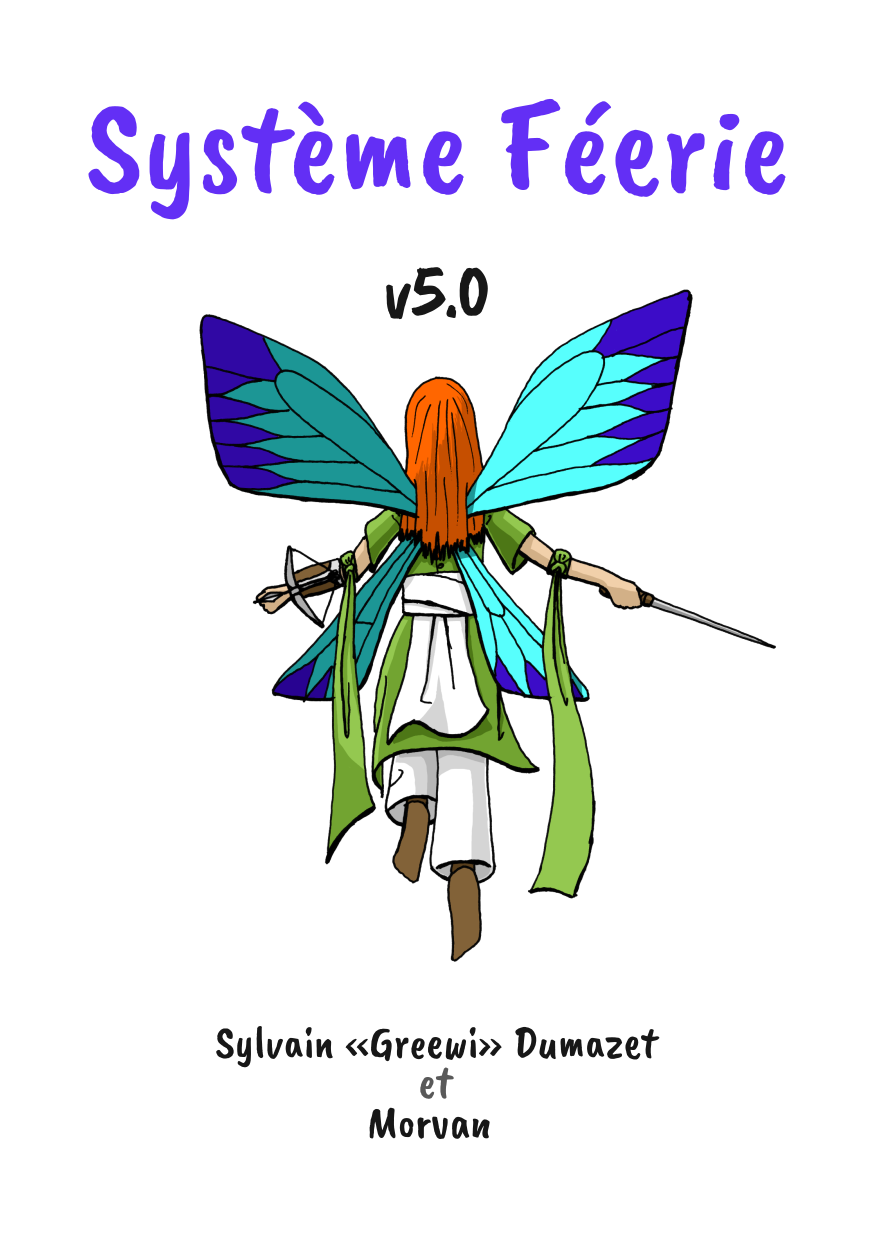
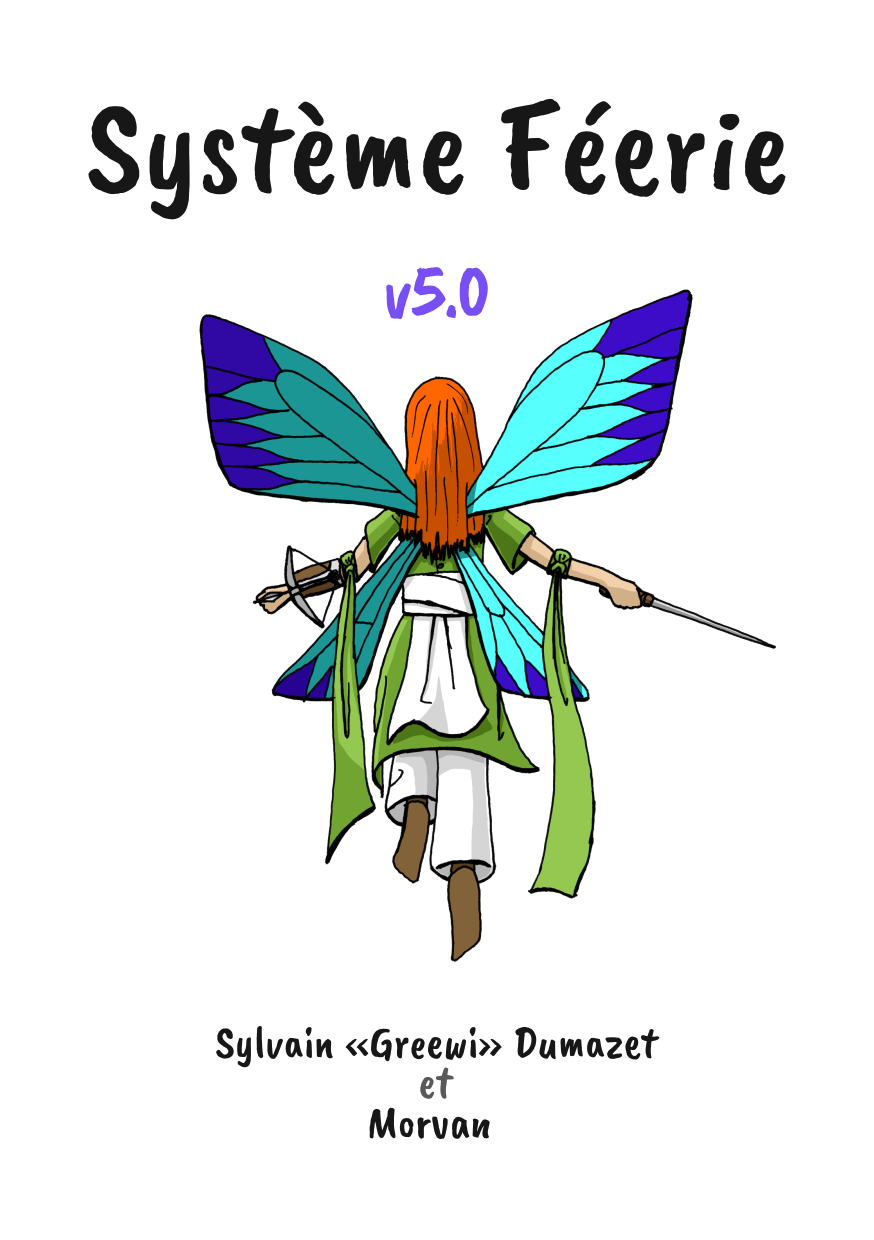
:pencil2: Correction des textes et retouche de la couverture

diff --git a/Système Féerie V5/0 - Introduction.md b/Système Féerie V5/0 - Introduction.md
@@ -17,7 +17,7 @@ Jusqu’ici, nous n’avions pas trouvé de système qui réponde convenablement
 * Remettre les participants en pleine possession de l’histoire à la table ;
 * Privilégier le sens et la description aux mécaniques abstraites habituelles des jeux de rôles.
 
-Ceci a pour conséquences un certains nombre de choix. Pour commencer, ce système utilise un processus atypique pour la création des personnages : le personnage est initialement défini avec des termes courants, à partir d’un questionnaire ou en rédigeant une description du personnage ; puis les règles transposent simplement et naturellement les éléments de ce personnage en caractéristiques chiffrées qui seront utilisées lors de la résolution des actions. Il n’y a pas de système de points/classe/niveau/archétype pour “encadrer” ou restreindre cette création et dans l’absolu, cette méthode permet de créer n’importe quel personnage de n’importe quel univers.
+Ceci a pour conséquences un certain nombre de choix. Pour commencer, ce système utilise un processus atypique pour la création des personnages : le personnage est initialement défini avec des termes courants, à partir d’un questionnaire ou en rédigeant une description du personnage ; puis les règles transposent simplement et naturellement les éléments de ce personnage en caractéristiques chiffrées qui seront utilisées lors de la résolution des actions. Il n’y a pas de système de points/classe/niveau/archétype pour “encadrer” ou restreindre cette création et dans l’absolu, cette méthode permet de créer n’importe quel personnage de n’importe quel univers.
 
 Ensuite, dans cette optique descriptive, les règles ne décrivent que des mécaniques de résolution mais sans imposer des règles pour fixer les conséquences (par exemple, il n’y a pas de gestion précise de la santé dans le corpus de règles du *Système Féerie*). Dans ce cadre, ce n’est plus au système de jeu de déterminer précisément comment l’action doit se comporter, mais aux participants. Ceci impose aussi que les règles de résolution ne fassent aucune distinction sur la nature des actions à résoudre : pas de spécificité pour, par exemple, le combat ou la magie.
 
@@ -29,7 +29,7 @@ Ce système a été conçu pour être simple et rapide à prendre en main. Comme
 
 Le *Système Féerie* tire ses origines du jeu de rôles amateur *Féerie, l’autre monde*. Comme la plupart des jeux « médiéval fantastique mais… », il a fini enterré depuis longtemps. Pourtant, ce jeu possédait quelques principes rares dans son système de jeu qui sont résumés dans la précédente note d’intention. Ce système a donc été extrait sous le nom *Règles simples et sans surplus pour Féerie et autres mondes* avant de devenir le *Système Féerie* première version.
 
-Ainsi, le *Système Féerie* est resté, reposant toujours sur le même principe : créer son personnage en partant de sa description pour en tirer les caractéristiques. Tenter de procéder comme ça avec la plupart des autres systèmes de jeu conduit pratiquement toujours à devoir faire des concessions sur cette description ou à prendre des libertés vis-à-vis des règles du jeu. De mon expérience, une proportion significative de groupes de joueurs finissent par choisir la seconde option dans ce cas.
+Ainsi, le *Système Féerie* est resté, reposant toujours sur le même principe : créer son personnage en partant de sa description pour en tirer les caractéristiques. Tenter de procéder comme ça avec la plupart des autres systèmes de jeu conduit pratiquement toujours à devoir faire des concessions sur cette description ou à prendre des libertés vis-à-vis des règles du jeu. De mon expérience, une proportion significative de groupes de joueurs finit par choisir la seconde option dans ce cas.
 
 Bien sûr, au départ, le *Système Féerie* était très archaïque et n’allait pas assez loin. Malgré tout, je suis parvenu à en faire une première version, puis une seconde. J’ai ensuite reçu l’aide de Morvan qui m’a rejoint sur ce projet. Il a apporté beaucoup d’aide, un regard extérieur et surtout des connaissances très avancées sur l’état de l’art. Pour être honnête, c’est à lui que l’on doit le fossé qui sépare la seconde version de la troisième version du *Système Féerie*.
 
@@ -41,7 +41,7 @@ Ainsi, le *Système Féerie* a connu de nombreuses itérations et déjà quatre 
 
 Le *Système Féerie* que vous avez entre les mains est une version prête à être adaptée. Cela signifie que vous pourriez l’utiliser directement pour votre jeu, à condition de faire les modifications et adaptations qui conviennent. Ce système léger est aussi très malléable et vous trouverez dans ce document toutes les règles de jeu et les conseils pour les faire fonctionner dans votre jeu.
 
-Au fil de ce document vous trouverez différents type d’encart :
+Au fil de ce document vous trouverez différents types d’encart :
 * Ceux avec la mention « **Règle optionnelle** » concernent des règles optionnelles qui peuvent être intégrées à votre jeu mais qui ne font pas partie du cœur de base. Ce sont principalement des règles que vous pourriez vouloir sans que nous ne les jugions nécessaires. Elles sont donc soumises à votre propre appréciation.
 * Les encarts avec la mention « *Adaptation* » donnent des indications et des conseils pour adapter le *Système Féerie* à votre jeu.
 * Les autres encarts sont des précisions ou des exemples qui font partie du *Système Féerie*.
@@ -52,9 +52,9 @@ Vous trouverez à la fin de ce document, un chapitre, *Adapter le Système*, pou
 
 Le jeu de rôles est un medium très puissant car il repose majoritairement sur l’imagination. Et c’est une chose que la plupart, si ce n’est la totalité, des gens possèdent. En revanche, il est généralement distribué sous forme de texte et d’éléments graphiques, comme les livres de règles, les fiches de personnages, les aides de jeu, et même les dés. Il serait particulièrement dommage d’exclure une partie de votre public à cause de ces supports écrits. C’est pourquoi nous portons quelques éléments d’accessibilité à votre attention.
 
-Pour commencer, un assez grand nombre de personne possèdent une mauvaise vue. Environ trois personne sur quatre possède un trouble de la vision et près de 13 % ne portent pas de correction adaptée. C’est un handicap souvent léger qui peut vite devenir problématique si vous écrivez vos textes en corps 7 par-dessus un filigrane chargé en fond de page. Même si vous souhaitez offrir une mise en page riche et chargée comme le standard de la mise en page des jeux de rôles semble l’indiquer, n’hésitez pas à étudier la possibilité d’offrir un format avec de grandes polices (14 points) et ayant un contraste fort (noir sur fond blanc, voir blanc sur fond noir pour un support numérique). Évitez aussi d’utiliser une police fantaisie trop difficile à lire, mais ce conseil vaut aussi pour votre public valide.
+Pour commencer, un assez grand nombre de personne possèdent une mauvaise vue. Environ trois personnes sur quatre possèdent un trouble de la vision et près de 13 % ne portent pas de correction adaptée. C’est un handicap souvent léger qui peut vite devenir problématique si vous écrivez vos textes en corps 7 par-dessus un filigrane chargé en fond de page. Même si vous souhaitez offrir une mise en page riche et chargée comme le standard de la mise en page des jeux de rôles semble l’indiquer, n’hésitez pas à étudier la possibilité d’offrir un format avec de grandes polices (14 points) et ayant un contraste fort (noir sur fond blanc, voir blanc sur fond noir pour un support numérique). Évitez aussi d’utiliser une police fantaisie trop difficile à lire, mais ce conseil vaut aussi pour votre public valide.
 
->> Pour *Solaires*, nous avons rencontré le problème sur nos fiches de personnage. À l’heure ou nous écrivons ces lignes, le problème est hélas encore présent même si nous réfléchissons à de nouvelles fiches. Ne faites pas comme nous : pensez-y avant que le problème ne vous soit remonté !
+>> Pour *Solaires*, nous avons rencontré le problème sur nos fiches de personnage. À l’heure où nous écrivons ces lignes, le problème est hélas encore présent même si nous réfléchissons à de nouvelles fiches. Ne faites pas comme nous : pensez-y avant que le problème ne vous soit remonté !
 
 Saviez-vous que 8 % de la population masculine était atteinte par le daltonisme ? Et bien que l’incapacité à distinguer le rouge et le vert soit la version la plus courante, il en existe plusieurs autres variantes. Aussi, ne donnez jamais d’information sur la seule base de la couleur. Et puis, de toutes façons, n’oubliez que la plupart des gens impriment en noir et blanc.
 
@@ -70,7 +70,7 @@ La dyslexie est un problème aussi important. La dyslexie touche entre 3 à 7 %
 
 Plus rare mais tout aussi gênante, l’aphantasie est une affection qui empêche la personne de former des images mentales. À la lecture d’une description, la plupart des gens visualisent une image de celle-ci, mais ceux affectés par l’aphantasie ne le peuvent pas. C’est évidemment un problème pour le jeu de rôles ou tout ou presque se base sur un discours oral en partie. Pour aider ces personnes, qui représenteraient environ 2 % de la population (les recherches sont assez récentes), il est utile d’apporter des illustrations des choses spécifiques du jeu et si possible de permettre au meneur de les montrer facilement pendant la partie.
 
-Les troubles du déficit de l’attention avec ou sans hyperactivité touchent près 5 % de la population. Parmi les symptômes on retrouve notamment la difficulté à conserver une durée d’attention sur une longue durée. Pour palier ce problème, nous conseillons d’adapter la durée des séances et d’effectuer des pauses. Du point de la création d’un jeu cela implique qu’il faut essayer d’éviter de générer des situations qui prennent beaucoup de temps. Certains jeux demandent aux joueurs de rester concentré plus d’une heure sur un même combat et c’est une situation difficile pour ces personnes. Le *Système Féerie* par sa conception n’impose pas de tel format de situation, mais faites attention à ne pas générer de mécanique qui pourrait prendre beaucoup trop de temps pour se résoudre.
+Les troubles du déficit de l’attention avec ou sans hyperactivité touchent près 5 % de la population. Parmi les symptômes on retrouve notamment la difficulté à conserver une durée d’attention sur une longue durée. Pour pallier ce problème, nous conseillons d’adapter la durée des séances et d’effectuer des pauses. Du point de la création d’un jeu cela implique qu’il faut essayer d’éviter de générer des situations qui prennent beaucoup de temps. Certains jeux demandent aux joueurs de rester concentré plus d’une heure sur un même combat et c’est une situation difficile pour ces personnes. Le *Système Féerie* par sa conception n’impose pas de tel format de situation, mais faites attention à ne pas générer de mécanique qui pourrait prendre beaucoup trop de temps pour se résoudre.
 
 Il existe aussi de nombreux handicaps mentaux qui peuvent gêner la compréhension des textes. Si votre jeu cible les personnes ayant un handicap mental, faites attentions au niveau de langue et à la complexité des phrases. Par exemple, ce présent document leur serait simplement hors d’atteinte. Cette contrainte particulièrement forte est sans doute l’une des plus difficiles à prendre en compte simplement. Si vous adaptez vos textes et concepts à ce public, notez que votre jeu sera aussi accessible aux personnes qui apprennent encore la langue. Le niveau de langue est aussi un élément à prendre en compte si vous visez un public très jeune.
 

diff --git a/Système Féerie V5/4 - Modifications scénaristiques.md b/Système Féerie V5/4 - Modifications scénaristiques.md
@@ -14,7 +14,7 @@ Au début de chaque séance, les personnages possèdent un nombre fixe de points
 
 Nous vous recommandons de donner trois points à chaque personnage au début d’une séance. Mais vous pouvez aussi déterminer ce nombre en considérant simplement le nombre de modifications majeures par joueur lors de la séance. Ceci peut être utile, notamment si le meneur a prévu une séance particulièrement longue ou courte.
 
->> Certains meneurs peuvent aussi s’en servir pour récompenser certaines actions ou en récompense à la fin d’un arc ou d’une séance. Nous vous conseillons dans ce cas de réduire le nombre obtenus en début de séance. Une autre solution consiste aussi à ne pas permettre de les conserver d’une séance sur l’autre.
+>> Certains meneurs peuvent aussi s’en servir pour récompenser certaines actions ou en récompense à la fin d’un arc ou d’une séance. Nous vous conseillons dans ce cas de réduire le nombre obtenu en début de séance. Une autre solution consiste aussi à ne pas permettre de les conserver d’une séance sur l’autre.
 
 ----
 ## Faire une modification
@@ -33,11 +33,11 @@ Il existe deux catégories de modifications :
 
 Voici une liste de modifications mineures :
 * **Décrire les conséquences d’une action** : décrivez les conséquences d’une action de votre personnage. Comme toutes les modifications scénaristiques, elle reste sujette au veto des participants, en particulier du meneur. Vous devez conserver la même qualité de réussite et d’échec. Vous ne pouvez donc pas décrire une contrepartie bénéfique en cas d’échec si la résolution de l’action n’en indique pas. *Par exemple, Skyline tente de convaincre un agent de sécurité de le laisser inspecter une scène de crime, mais il échoue avec une contrepartie positive. Le joueur décide de décrire lui-même cette contrepartie positive et utilise son trait **Bavard** pour proposer que Skyline a réussi pendant l’opération à occuper suffisamment l’agent pour permettre à Razors de passer discrètement derrière plus facilement sans en obtenir l’autorisation lui-même.*
-* **Modification cosmétique** : modifiez un élément lié à votre personnage ou faites lui faire quelque chose sans que cela ne vous procure un avantage mais serve à typer votre personnage. *Par exemple, alors qu’une fusillade fait rage à côté d’elle, Jay'ny explore la matrice. Bien que ça ne lui donnera aucun bonus pour la suite, sa joueuse décide d’utiliser son trait **Calme quand elle est connectée** pour avoir une posture zen en décalage avec la situation. (Notez que son trait ne lui procurerait réellement un avantage que s’il était utilisé normalement pour résoudre une action à propos.)*
+* **Modification cosmétique** : modifiez un élément lié à votre personnage ou faites-lui faire quelque chose sans que cela ne vous procure un avantage mais serve à typer votre personnage. *Par exemple, alors qu’une fusillade fait rage à côté d’elle, Jay'ny explore la matrice. Bien que ça ne lui donnera aucun bonus pour la suite, sa joueuse décide d’utiliser son trait **Calme quand elle est connectée** pour avoir une posture zen en décalage avec la situation. (Notez que son trait ne lui procurerait réellement un avantage que s’il était utilisé normalement pour résoudre une action à propos.)*
 
 Voici une liste de modifications majeures :
 * **Ajouter un effet secondaire** : ajoutez un effet secondaire, positif ou négatif, au choix du joueur, lors de la résolution d’une action après avoir vu le résultat du jet de dés. *Par exemple, Skyline interroge un agent de sécurité martien et réussi son action. Ainsi, l’agent lui donne les informations qu’il possède. Le joueur de Skyline décide d’utiliser sa relation **Mars** et propose alors d’ajouter un effet secondaire positif pour que cet agent le prévienne s’il apprenait quelque chose plus tard.*
-* **Supprimer un effet secondaire** : supprimez un effet secondaire, positif ou négatif, après avoir vu le résultat du jet de dés. *Par exemple, Downlink tente un piratage mais Justine, la meneuse, a indiqué que si le joueur conservait pas les trois dés, un effet secondaire négatif aurait lieu. Downlink lance les dés et et ne conserve que deux dés. Le joueur décide d’utiliser un point de personnage et sa **Console de décryptage modifiée** pour supprimer l’effet secondaire et éviter une complication.*
+* **Supprimer un effet secondaire** : supprimez un effet secondaire, positif ou négatif, après avoir vu le résultat du jet de dés. *Par exemple, Downlink tente un piratage mais Justine, la meneuse, a indiqué que si le joueur ne conservait pas les trois dés, un effet secondaire négatif aurait lieu. Downlink lance les dés et ne conserve que deux dés. Le joueur décide d’utiliser un point de personnage et sa **Console de décryptage modifiée** pour supprimer l’effet secondaire et éviter une complication.*
 * **Lier un élément scénaristique** : liez un élément scénaristique à votre personnage. *Par exemple, alors que l’équipe tente d’entrer dans une boîte de nuit, un videur les arrête au prétexte que la salle est pleine. Sophie, qui joue Razors, utilise la relation **École militaire de Mars** de son personnage et propose que Razors connaisse le videur.*
 * **Créer un élément scénaristique** : créez un élément scénaristique ayant un lien avec votre personnage. *Par exemple, alors qu’une fusillade a éclaté dans un bar, Nicolas qui joue Downlink, propose d’utiliser son trait **Débrouillard** pour découvrir une arme cachée sous le comptoir où il est retranché.*
 * **Faire un Flashback** : demandez au meneur un bref flashback pour apporter un élément nouveau ou altérer légèrement certains faits qui n’ont pas été joués à l’écran. *Par exemple, que l’équipe se prépare à questionner un membre des Phobos’ Heigths, ce dernier réussi à prendre la fuite, la joueuse de Razors décide d’utiliser la carrière **Solar Wardners** et explique qu’avant de venir, elle a demandé aux forces de sécurité de se préparer à intervenir vu la réputation du triste sire. Ce dernier court désormais droit dans un cordon de la sécurité.*

diff --git a/Système Féerie V5/7 - Adapter le système.md b/Système Féerie V5/7 - Adapter le système.md
@@ -38,7 +38,7 @@ Pour continuer, vous devez déterminer les rôles, c’est-à-dire les aspects d
 
 Considérons la création des personnages en elle-même. La méthode descriptive que nous proposons peut-être très simple, les descriptions n’ayant pas besoin d’être volumineuses, mais elle demande aux joueurs un minimum de connaissance de l’univers du jeu. Pour les aider, nous renouvelons notre conseil : donnez-leur des pré-tirés ou des archétypes en exemple, qu’ils sachent à quoi ressemble un personnage dans votre jeu.
 
-Donnez leur une courte aide de jeu, résumant, un peu comme un glossaire, les informations importantes pour créer les personnages : l’histoire de l’univers, les principales factions, la géographie, etc. N’hésitez pas non plus à leur donner des listes d’éléments typique de l’univers que ce soient des carrières, du matériel, des factions, etc.
+Donnez-leur une courte aide de jeu, résumant, un peu comme un glossaire, les informations importantes pour créer les personnages : l’histoire de l’univers, les principales factions, la géographie, etc. N’hésitez pas non plus à leur donner des listes d’éléments typique de l’univers que ce soient des carrières, du matériel, des factions, etc.
 
 ----
 ## Gérer les particularités de l’univers en jeu
@@ -49,11 +49,11 @@ Naturellement, vous serez tentés de créer des règles dédiées pour y parveni
 
 Quel que soit l’aspect que vous souhaitez apporter dans votre jeu, vous devriez normalement pouvoir le décrire. Expliquez son fonctionnement tel qu’il est compris dans l’univers du jeu. Imaginez que vous ayez un personnage qui explique à d’autres comment ça marche et comment s’en servir. Lorsque vous lisez un livre, vous comprenez généralement comment fonctionnent les éléments de la fiction sans qu’on ait pour autant donné des règles de simulation.
 
-Par exemple, si vous avez lu *Le neuromancien* de William Gibson, vous savez que dans cette fiction le piratage informatique implique d’utiliser un virus numérique pour pénétrer la protection du serveur à atteindre, qui s’appelle une glace. Ces logiciels peuvent prendre du temps pour opérer et ils sont conçus pour certains types de glaces. Vous savez aussi qu’il existe deux grandes familles de glaces, les blanches, solides mais inoffensives, et les noires capables de riposter et de tuer le decker s’il ne se déconnecte pas à temps. Avec cette description, vous avez tout ce qu’il vous faut pour gérer cette situation en jeu avec la mécanique de résolution du *Système Féerie*.
+Par exemple, si vous avez lu *Neuromancien* de William Gibson, vous savez que dans cette fiction le piratage informatique implique d’utiliser un virus numérique pour pénétrer la protection du serveur à atteindre, qui s’appelle une glace. Ces logiciels peuvent prendre du temps pour opérer et ils sont conçus pour certains types de glaces. Vous savez aussi qu’il existe deux grandes familles de glaces, les blanches, solides mais inoffensives, et les noires capables de riposter et de tuer le decker s’il ne se déconnecte pas à temps. Avec cette description, vous avez tout ce qu’il vous faut pour gérer cette situation en jeu avec la mécanique de résolution du *Système Féerie*.
 
 Il en va de même pour des choses qui ont habituellement des règles dédiées particulièrement verbeuses et complexes comme la magie. Et d’ailleurs, dans toutes les œuvres où vous voyez la magie à l’œuvre, celle-ci n’est généralement pas régie par des règles mécaniques précises (et il est même courant qu’elles servent l’histoire de façon particulièrement pratique). Par exemple, si vous avez lu les romans *Harry Potter* de J. K. Rowling, vous avez une idée assez claire de comment la magie fonctionne, en particulier les sortilèges. Dans cet univers, ce sont des formules rigides à connaître et qui produisent des effets simples. Pour ce type de magie, vous pouvez simplement vous contenter de constituer la liste de ces sortilèges en décrivant brièvement leurs effets, sans avoir besoin de leur donner un fonctionnement mécanique.
 
-D’autres formes de magie peuvent être sujettes à interprétation. Par exemple, la Force dans les films *Starwars* de Georges Lucas, est vue comme une force mystique qui peut être manipulée pour déplacer des objets, influencer les « esprits faibles », avoir des visions, voir l’avenir et projeter des éclairs. Dans les films, la force ne prend pas la forme de sorts définis mais plus d’une force qu’il est possible de manipuler. En revanche dans la version des jeux vidéos (et des jeux de rôles), tout ceci a été retranscrit sous la forme de liste de pouvoirs discrets. Nous insistons sur le fait qu’il n’y a pas une « bonne » façon de faire et le *Système Féerie* vous permet d’émuler facilement les deux aspects, le choix revenant au créateur du jeu en fonction de ce qu’il souhaite retranscrire.
+D’autres formes de magie peuvent être sujettes à interprétation. Par exemple, la Force dans les films *Star Wars* de Georges Lucas, est vue comme une force mystique qui peut être manipulée pour déplacer des objets, influencer les « esprits faibles », avoir des visions, voir l’avenir et projeter des éclairs. Dans les films, la force ne prend pas la forme de sorts définis mais plus d’une force qu’il est possible de manipuler. En revanche dans la version des jeux vidéo (et des jeux de rôles), tout ceci a été retranscrit sous la forme de liste de pouvoirs discrets. Nous insistons sur le fait qu’il n’y a pas une « bonne » façon de faire et le *Système Féerie* vous permet d’émuler facilement les deux aspects, le choix revenant au créateur du jeu en fonction de ce qu’il souhaite retranscrire.
 
 En choisissant de mettre la description et le sens au cœur de ses mécaniques, le *Système Féerie* peut se reposer sur les participants pour gérer les conséquences des actions. Et ceci permet notamment de limiter la distinction entre le fonctionnement de l’univers et les mécaniques de jeu. Ainsi, lors de l’adaptation vous pouvez vous concentrer sur le fonctionnement de votre univers tel que vu de l’intérieur.
 

diff --git a/Système Féerie V5/2 - Résolution des actions.md b/Système Féerie V5/2 - Résolution des actions.md
@@ -119,15 +119,15 @@ Notez que vous pouvez effectuer une modification scénaristique pour décrire vo
 ## Cas particuliers
 
 Les règles de résolution gèrent toutes les situations et actions que vous rencontrerez. Malgré tout, il existe quelques cas où le meneur peut rechercher des règles plus précises :
-* **Action collaborative** : il s’agit des actions où plusieurs personnages collaborent. Dans ce cas, l’action est résolue normalement par l’initiateur, mais ceux qui l’aident peuvent lui prêter un élément. Les règles restent les mêmes : deux éléments maximums et au moins un des deux éléments doit être typique s’il y en a plusieurs.
-* **Action communes** : dans de nombreux cas, le groupe de personnage veut effectuer une action qui doit être réussie par tous les personnages. *Par exemple, escalader une falaise, contourner une patrouille furtivement, garder son sang froid dans une situation critique, etc.* Pour ce type de jet, nous vous proposons de faire faire un jet à chaque personnage. Si la majorité réussie l’action, le groupe réussi. Sinon, le groupe échoue et l’un des personnages dévisse, se fait repérer, panique, etc. Le meneur devrait choisir de préférence celui dont l’échec entraînera la situation la plus intéressante parmi les personnages qui ont échoué le jet.
-* **Action en réaction** : dans certains cas, il est possible qu’une action ne soit pas à l’initiative d’un personnage et que ce dernier doive réagir à un événement. Par exemple, des adversaires viennent de lui tendre une embuscade et le meneur souhaite que le personnage réagisse. Dans ces situations, même si l’action n’est pas à l’initiative du joueur, le processus reste le même : le joueur indique ce que son personnage va essayer de faire en réaction et l’action est résolue comme habituellement.
+* **Actions collaboratives** : il s’agit des actions où plusieurs personnages collaborent. Dans ce cas, l’action est résolue normalement par l’initiateur, mais ceux qui l’aident peuvent lui prêter un élément. Les règles restent les mêmes : deux éléments maximums et au moins un des deux éléments doit être typique s’il y en a plusieurs.
+* **Actions communes** : dans de nombreux cas, le groupe de personnage veut effectuer une action qui doit être réussie par tous les personnages. *Par exemple, escalader une falaise, contourner une patrouille furtivement, garder son sang-froid dans une situation critique, etc.* Pour ce type de jet, nous vous proposons de faire faire un jet à chaque personnage. Si la majorité réussie l’action, le groupe réussi. Sinon, le groupe échoue et l’un des personnages dévisse, se fait repérer, panique, etc. Le meneur devrait choisir de préférence celui dont l’échec entraînera la situation la plus intéressante parmi les personnages qui ont échoué le jet.
+* **Actions en réaction** : dans certains cas, il est possible qu’une action ne soit pas à l’initiative d’un personnage et que ce dernier doive réagir à un événement. Par exemple, des adversaires viennent de lui tendre une embuscade et le meneur souhaite que le personnage réagisse. Dans ces situations, même si l’action n’est pas à l’initiative du joueur, le processus reste le même : le joueur indique ce que son personnage va essayer de faire en réaction et l’action est résolue comme habituellement.
 
 ## Un exemple issu de Solaires
 
 Dans cet exemple, Nicolas et Sophie jouent respectivement les personnages Downlink, un decker et Razors, une cyber-samouraï. La partie est menée par Justine.
 
-Alors que l’équipe mène ses investigations sur un mystérieux saboteur, Sophie propose que son personnage s’introduise discrètement sur le chantier où travaille leur principal suspect pour y chercher des indices. Alors que la meneuse lui demande comment elle compte s’y prendre, Sophie explique qu’elle va utiliser son camouflage pour y entrer ingognito. Nicolas ajoute que Downlink va l’aider en la couvrant depuis la matrice.
+Alors que l’équipe mène ses investigations sur un mystérieux saboteur, Sophie propose que son personnage s’introduise discrètement sur le chantier où travaille leur principal suspect pour y chercher des indices. Alors que la meneuse lui demande comment elle compte s’y prendre, Sophie explique qu’elle va utiliser son camouflage pour y entrer incognito. Nicolas ajoute que Downlink va l’aider en la couvrant depuis la matrice.
 
 Pour préciser ce qui va se passer, Justine explique que s’ils réussissent, ils pourront effectuer des recherches sur le chantier, mais que s’ils échouent, la sécurité et leur suspect seront prévenus et risquent d’envoyer des agents. Sophie accepte.
 

diff --git a/Système Féerie V5/5 - Création des personnages.md b/Système Féerie V5/5 - Création des personnages.md
@@ -46,8 +46,8 @@ Maintenant que vous avez défini le groupe, passons à la création de votre per
 ## Le concept
 
 Pour commencer la création de votre personnage, il vous faut son concept. Il s’agit de la base du personnage et il devrait permettre d’avoir une première idée de votre personnage sur ce qu’il est et ce qu’il peut faire. Voici quelques exemples de concept de personnage pris dans divers univers :
-* Un astronaute dans une enveloppe de raton laveur antropomorphe.
-* Une ranger elfe peu locace.
+* Un astronaute dans une enveloppe de raton laveur anthropomorphe.
+* Une ranger elfe peu loquace.
 * Un prestidigitateur anglais très charismatique.
 * Un tirailleur sénégalais vétéran.
 * Une fée, agente des gardiennes.
@@ -76,7 +76,7 @@ Toutes ces questions peuvent sembler un peu intimidantes, mais n’oubliez pas 
 
 >> ### Comprendre l’univers du jeu
 >>
->> Si vous ne connaissez pas encore l’univers, vous aurez sans doute du mal pour créer votre personnage. Commencez par regarder les archétypes ou les personnages prétirés qui sont normalement fournis avec le jeu. Si l’univers du jeu provient d’une d’une fiction, vous pouvez aussi vous inspirer des personnages qui y apparaissent. Les autres participants devraient aussi pouvoir vous aider. N’hésitez pas non plus à demander quelques résumés de l’univers à votre meneur.
+>> Si vous ne connaissez pas encore l’univers, vous aurez sans doute du mal pour créer votre personnage. Commencez par regarder les archétypes ou les personnages prétirés qui sont normalement fournis avec le jeu. Si l’univers du jeu provient d’une fiction, vous pouvez aussi vous inspirer des personnages qui y apparaissent. Les autres participants devraient aussi pouvoir vous aider. N’hésitez pas non plus à demander quelques résumés de l’univers à votre meneur.
 
 >> ### Adaptation : les aides de jeu
 >>
@@ -118,7 +118,7 @@ Voici les catégories et leurs échelles d’évaluation.
 * **Insignifiant (0)** : un trait de personnalité qui n’a aucun impact sur les décisions ou le comportement du personnage.
 * **Mineur (1)** : le personnage peut ignorer ce trait de personnalité sans grand effort.
 * **Important (2)** : un trait de personnalité que le personnage a beaucoup de mal à ignorer et qui intervient dans de nombreuses situations.
-* **Impératif (3)** : le personnage remettra jamais en question ce trait de personnalité qui gouverne intégralement sa vie.
+* **Impératif (3)** : le personnage ne remettra jamais en question ce trait de personnalité qui gouverne intégralement sa vie.
 
 **Les carrières (C)** représentent les métiers, formations, loisirs et autres occupations du personnage. En cours de jeu, n’oubliez pas que celles-ci incluent aussi des relations anonymes, par exemple des collègues, des fournisseurs, des employeurs, etc. Pour les évaluer, voici les correspondances :
 * **Profane (0)** : le personnage n’a jamais pratiqué ou étudié cette carrière.
@@ -136,7 +136,7 @@ Voici les catégories et leurs échelles d’évaluation.
 * **Ordinaire ou Standard (0)** : le matériel standard, qu’il soit spécialisé ou non.
 * **Amélioré ou spécial (1)** : le matériel amélioré, modifié ou personnalisé que possèdent les spécialistes.
 * **À la pointe de la technologie (2)** : le matériel à la pointe de la technologie, ce qui se fait de mieux.
-* **Magique (2, variante)** : la matériel est enchanté ou magique.
+* **Magique (2, variante)** : le matériel est enchanté ou magique.
 * **Prochaine génération (3)**. : le matériel expérimental destiné à remplacer le matériel actuel lorsqu’il sera finalisé. On trouve principalement des prototypes ou les outils de certains technophiles les plus investis.
 * **Artefact légendaire (3, variante)** : le matériel est un artefact légendaire et unique et possède une grande puissance.
 

diff --git a/Système Féerie V5/3 - États.md b/Système Féerie V5/3 - États.md
@@ -20,7 +20,7 @@ Comme les autres éléments, vous devez leur donner un score en fonction des est
 
 ## Obtenir et perdre un état
 
-Certaines actions impacteront un personnage temporairement. Il est ainsi possible qu’un personnage obtienne un avantage situationnel ou reçoive une altération bénéfique. Ceci est notamment possible si le personnage subit un effet secondaire positif ou une aide extérieur.
+Certaines actions impacteront un personnage temporairement. Il est ainsi possible qu’un personnage obtienne un avantage situationnel ou reçoive une altération bénéfique. Ceci est notamment possible si le personnage subit un effet secondaire positif ou une aide extérieure.
 
 *Par exemple, alors qu’il prépare une sortie spatiale, Thoss, un soldat, décide de prendre un produit pour lutter contre la désorientation de l’apesanteur et l’aider à se concentrer. Il obtient l’état « Dopé (2) ».*
 
@@ -44,7 +44,7 @@ Concrètement, lors de la résolution de l’action, votre meneur aura plusieurs
 * L’état peut affecter la difficulté intrinsèque de l’action, la rendant généralement plus difficile.
 * L’état peut être la source d’effet secondaires supplémentaires lors de l’action. Généralement, il s’agit d’une complication de la situation, d’une aggravation de l’état, etc. Le meneur devrait vous indiquer ces potentiels effets secondaires au moment de décider de l’action. Il peut d’ailleurs les conditionner à un certain nombre de dés conservés.
 
-*Par exemple, Feyn qui a l’état « Décroché (2) », tente une réparation sur le connecteur qui sert à raccorder son vaisseau à la station de ravitaillement. La meneuse lui indique que s’il ne conserve pas les trois dés, un effet secondaire négatif surviendra. Après le lancé de dés, le joueur de Feyn ne conserve que deux dés. Son action réussie et le connecteur est bien réparé. Mais comme il n’a pas conservé les trois dés, la complication survient : Feyn sous l’effort pour refermer l’attache, perd prise et Thoss le voit partir à la dérive, tournant sur lui-même, non sans quelques jurons.*
+*Par exemple, Feyn qui a l’état « Décroché (2) », tente une réparation sur le connecteur qui sert à raccorder son vaisseau à la station de ravitaillement. La meneuse lui indique que s’il ne conserve pas les trois dés, un effet secondaire négatif surviendra. Après le lancer de dés, le joueur de Feyn ne conserve que deux dés. Son action réussie et le connecteur est bien réparé. Mais comme il n’a pas conservé les trois dés, la complication survient : Feyn sous l’effort pour refermer l’attache, perd prise et Thoss le voit partir à la dérive, tournant sur lui-même, non sans quelques jurons.*
 
 ## Exemples d’états
 
@@ -65,4 +65,4 @@ Ensuite, voici quelques exemples d’état négatifs :
 * **Isolé (2)** : le personnage est isolé et ne peut pas communiquer avec les autres, notamment s’il est victime d’un brouillage ;
 * **Malade (2)** : le personnage a contracté une maladie ;
 * **Nauséeux (1)** : le personnage a la nausée après avoir été éjecté de réalité virtuelle ou à cause d’un changement de gravité ;
-* **Paniqué (3)** : le personnage a perdu son sang froid et cède à la panique.
+* **Paniqué (3)** : le personnage a perdu son sang-froid et cède à la panique.

diff --git a/Système Féerie V5/6 - Évolution des personnages.md b/Système Féerie V5/6 - Évolution des personnages.md
@@ -106,7 +106,7 @@ Il peut être intimidant pour un joueur de construire une intrigue lui-même. Bi
 **Infiltrer une organisation** :
 * pour obtenir une relation dans une organisation avec un score de 2 ;
 * étape 1 : *se faire remarquer par l’organisation* ;
-* étape 2 : *se faire recruter par l’organisation et y effectuer une tâche*.
+* étape 2 : *se faire recruter par l’organisation et y effectuer une tâche* ;
 * étape 3 : *rendre un service permettant de gagner la confiance de l’organisation*.
 
 **Sauver un VIP** :
